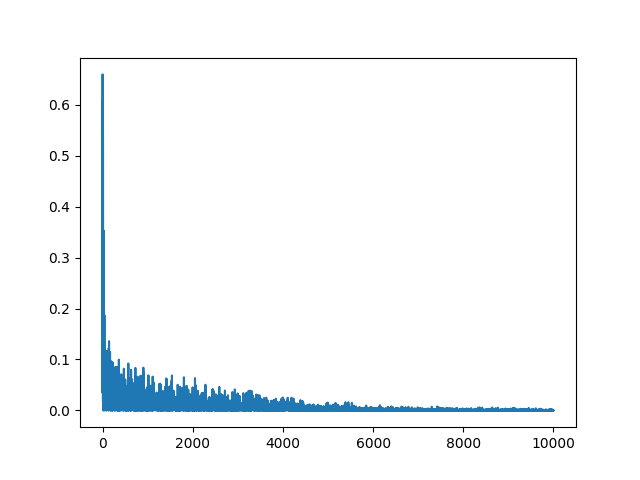
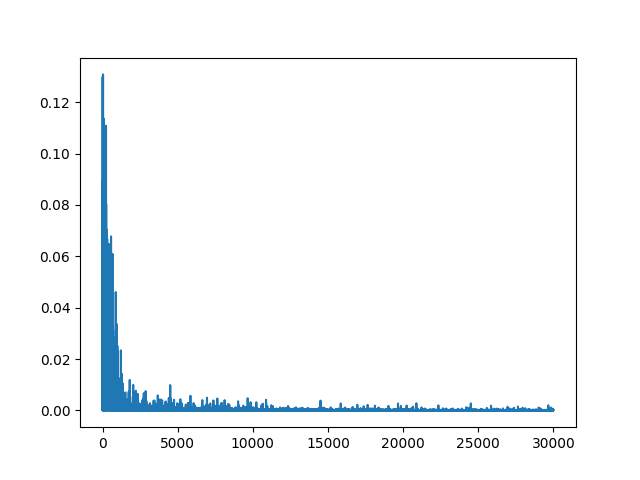
Added Adam Optimizer Functionality

diff --git a/model.py b/model.py
@@ -11,11 +11,13 @@ class NN():
               self.layers = []
               self.lr = lr
               self.loss = loss
+              self.beta_s = 0.9
+              self.beta_m = 0.9
               for i in range(len(layers)-1):
                      self.add_layer(layers[i], layers[i+1], activations[i])
 
 
-       def backward(self, Y, y_hat):
+       def backward(self, Y, y_hat, adam_params, counter):
               prev = None
               prev_weight = None
               new_weights = []
@@ -46,34 +48,74 @@ class NN():
                      # store current weight matrix for next iterations calculations
                      prev_weight = layer.W
 
-                     layer.W -= self.lr*dldw
-                     layer.b -= self.lr*dldb
-                     new_weights.append((self.lr*dldw, self.lr*dldb))
+                     
+                     # layer.W -= self.lr*dldw.mean(axis=0)
+                     # layer.b -= self.lr*dldb.mean(axis=0)
+                     new_weights.append((dldw.mean(axis=0), dldb.mean(axis=0)))
               
+              # implement Adam Optimizer
               for i, layer in enumerate(self.layers[::-1]):
                      updates = new_weights[i]
-                     layer.W -= updates[0]
-                     layer.b -= updates[1]
-              
-       def train(self, X, Y, num_epochs):
+                     g_w = updates[0]
+                     g_b = updates[1]
+                     momentum_bias_correction = 1/(1-np.power(self.beta_m, counter))
+                     squares_bias_correction = 1/(1-np.power(self.beta_s, counter))
+                     m_w_prev, s_w_prev, m_b_prev, s_b_prev = adam_params[i][0], adam_params[i][1], adam_params[i][2], adam_params[i][3] 
+
+                     # for the weights
+                     m_w = (self.beta_m)*m_w_prev + (1-self.beta_m)*g_w
+                     s_w = (self.beta_s)*s_w_prev + (1-self.beta_s)*np.power(g_w, 2)
+                     layer.W -= self.lr * (m_w/momentum_bias_correction)/(np.sqrt(s_w/squares_bias_correction) + 10e-8) # updates[0]
+
+                     # for the bias
+                     m_b = (self.beta_m)*m_b_prev + (1-self.beta_m)*g_b
+                     s_b = (self.beta_s)*s_b_prev + (1-self.beta_s)*np.power(g_b, 2)
+                     layer.b -= self.lr * (m_b/momentum_bias_correction)/(np.sqrt(s_b/squares_bias_correction) + 10e-8) # updates[1]
+
+                     adam_params[i] = (m_w, s_w, m_b, s_b)
+
+       def shuffled_batch(self, a, b, batch_num):
+              assert len(a) == len(b)
+              p = np.random.permutation(len(a))
+              batch_size = len(p)//batch_num
+              for i in range(0,len(p), batch_size):
+                     yield a[i:i+batch_size, : ], b[i: i+batch_size, : ]
+       
+       def train(self, X, Y, num_epochs, batch_num = 1000, method = "stochastic"):
+              assert method in ["stochastic", "minibatch", "batch"]
 
               loss_over_time = np.array([])
 
-              # # batch gradient descent
-              # for epoch in range(num_epochs):
-              #        Y_hat = self.forward(X)
-              #        loss_over_time.append(self.loss(Y, Y_hat))
-              #        self.backward(Y, Y_hat)
+              if method == "minibatch":
+                     for epoch in range(num_epochs):
+                            adam_params = [(0,0,0,0) for _ in self.layers]
+                            counter = 0
+                            for x,y in self.shuffled_batch(X, Y, batch_num):
+                                   counter += 1
+                                   y_hat = self.forward(x)
+                                   loss_over_time = np.append(loss_over_time, [self.loss(y, y_hat)])
+                                   self.backward(y, y_hat, adam_params, counter)
+              elif method == "batch":
+                     adam_params = [(0,0,0,0) for _ in self.layers]
+                     for epoch in range(num_epochs):
+                            Y_hat = self.forward(X)
+                            loss_over_time.append(self.loss(Y, Y_hat))
+                            self.backward(Y, Y_hat, adam_params, epoch + 1)
+              else:
+                     for epoch in range(num_epochs):
+                            adam_params = [(0,0,0,0) for _ in self.layers]
+                            counter = 0
+                            for x,y in zip(X,Y):
+                                   counter += 1
+                                   x = x.reshape(1, x.shape[0]) # must be row vector
+                                   y = y.reshape(1, y.shape[0]) # must be row vector as well
+                                   y_hat = self.forward(x)
+                                   loss_over_time = np.append(loss_over_time, [self.loss(y, y_hat)])
+                                   self.backward(y, y_hat, adam_params, counter)
 
-              # stochastic gradient descent
-              for epoch in range(num_epochs):
-                     for x,y in zip(X,Y):
-                            x = x.reshape(1, x.shape[0]) # must be row vector
-                            y = y.reshape(1, y.shape[0]) # must be row vector as well
-                            y_hat = self.forward(x)
-                            loss_over_time = np.append(loss_over_time, [self.loss(y, y_hat)])
-                            self.backward(y, y_hat)
+
               return loss_over_time
+
 
        def predict(self, X):
               return self.forward(X)

diff --git a/test.py b/test.py
@@ -4,8 +4,9 @@ from typing import Optional
 from activations import *
 from layers import Linear
 from model import NN
-from losses import hMSE
+from losses import *
 import seaborn as sns
+import scipy 
 
 
 def create_Y(X):
@@ -17,9 +18,9 @@ def create_Y(X):
 def main():
        n_x, n_y = 3, 1
        nn = NN(layers = (n_x, 2, 4, 2, n_y), 
-               activations = (Tanh(), ReLU(), ReLU(), Base()),
+               activations = (ReLU(), Tanh(), ReLU(), Sigmoid()),
                loss = hMSE(),
-               lr=0.002,)
+               lr=0.004,)
 
        # create training data
        N = 10000 # sample size
@@ -27,7 +28,7 @@ def main():
        Y = create_Y(X)
 
        # train
-       losses = nn.train(X, Y, 1)
+       losses = nn.train(X, Y, 3)
        g = sns.lineplot(data=losses)
        fig = g.get_figure()
        fig.savefig("loss.png")

diff --git a/layers.py b/layers.py
@@ -9,8 +9,8 @@ class Linear():
               output: number of nodes in current layer
               """
               # first row of the weights matrix is all weights going to the first node in the next layer
-              self.W = np.random.rand(output_num, input_num)
-              self.b = np.zeros(output_num)
+              self.W = np.random.normal(0, 2/input_num, size=(output_num, input_num)) # Kaiming
+              self.b = np.random.normal(0, 2/input_num, size=(output_num))
               self.Z: Optional[np.ndarray] = None # type | type
               self.A_prev: Optional[np.ndarray] = None
               self.A: Optional[np.ndarray] = None
